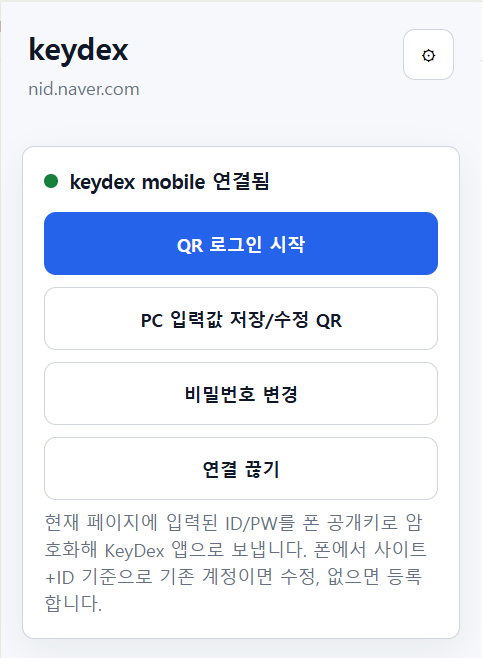
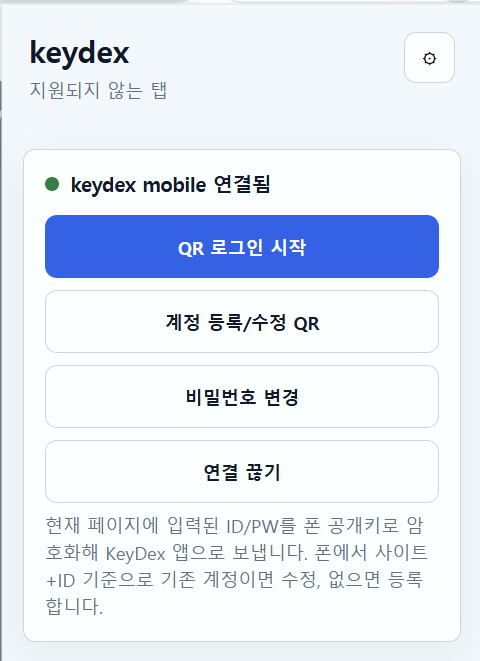
메뉴얼 1차 수정 2/2

diff --git a/keydex-manual.html b/keydex-manual.html
@@ -477,7 +477,7 @@
       </a>
       <a href="#pc">
         <strong>PC에서 지원하는 기능</strong>
-        <span>QR 로그인, PC 입력값 저장/수정 QR, 비밀번호 변경, 확장 프로그램 설정</span>
+        <span>QR 로그인, 계정 등록/수정 QR, 비밀번호 변경, 확장 프로그램 설정</span>
       </a>
       <a href="#mobile">
         <strong>스마트폰에서 지원하는 기능</strong>
@@ -546,7 +546,7 @@
         <ul>
           <li>최초 폰 페어링은 확장 프로그램과 폰 앱이 같은 릴레이 서버를 바라봐야 하므로 릴레이 URL이 필요합니다.</li>
           <li>QR 로그인도 폰 앱이 승인한 로그인 정보를 확장 프로그램이 릴레이 서버를 통해 받아야 하므로 릴레이 URL이 필요합니다.</li>
-          <li>PC 입력값 저장/수정 QR은 폰 앱이 QR 내용을 직접 받아 처리하는 흐름이므로, QR payload 안에 항상 relayBaseUrl이 필요한 것은 아닙니다.</li>
+          <li>계정 등록/수정 QR은 폰 앱이 QR 내용을 직접 받아 처리하는 흐름이므로, QR payload 안에 항상 relayBaseUrl이 필요한 것은 아닙니다.</li>
         </ul>
       </div>
 
@@ -600,7 +600,7 @@
         <div class="card-body">
           <h3>연결된 상태의 기본 메뉴</h3>
           <p>
-            폰 페어링이 완료되면 확장 프로그램 팝업에 <strong>QR 로그인 시작</strong>, <strong>PC 입력값 저장/수정 QR</strong>,
+            폰 페어링이 완료되면 확장 프로그램 팝업에 <strong>QR 로그인 시작</strong>, <strong>계정 등록/수정 QR</strong>,
             <strong>비밀번호 변경</strong>, <strong>연결 끊기</strong>가 표시됩니다.
           </p>
         </div>
@@ -624,9 +624,9 @@
         </article>
 
         <article class="card">
-          <img class="screen pc-tall" src="manual-assets/extension-save-qr.png" alt="PC 입력값 저장 또는 수정 QR 화면">
+          <img class="screen pc-tall" src="manual-assets/extension-save-qr.png" alt="계정 등록 또는 수정 QR 화면">
           <div class="card-body">
-            <h3>PC 입력값 저장/수정 QR</h3>
+            <h3>계정 등록/수정 QR</h3>
             <p>
               웹사이트의 로그인, 회원가입, 계정 수정 화면에 입력된 ID/PW를 QR로 만들어 폰 앱에 전달합니다.
               폰 앱은 사이트와 ID를 기준으로 기존 계정이 있으면 수정하고, 없으면 새 계정으로 등록합니다.
@@ -683,7 +683,7 @@
             <td>폰 페어링과 릴레이 URL 설정이 필요합니다.</td>
           </tr>
           <tr>
-            <td><span class="tag pc">PC 입력값 저장/수정 QR</span></td>
+            <td><span class="tag pc">계정 등록/수정 QR</span></td>
             <td>로그인, 회원가입, 계정 수정 화면</td>
             <td>PC 폼의 ID/PW를 QR로 전달하고 폰 앱에서 최종 저장</td>
             <td>사이트와 ID 기준으로 신규 등록 또는 기존 수정이 결정됩니다.</td>
@@ -791,7 +791,7 @@
           <h3>KeyDex 확장 QR 스캔</h3>
           <p>
             QR 버튼은 크롬 확장 프로그램과 연동되는 QR만 처리합니다.
-            최초 페어링, QR 로그인 승인, PC 입력값 저장/수정 QR, 비밀번호 변경 관련 QR을 스캔하는 전용 진입점입니다.
+            최초 페어링, QR 로그인 승인, 계정 등록/수정 QR, 비밀번호 변경 관련 QR을 스캔하는 전용 진입점입니다.
           </p>
         </div>
       </article>
@@ -819,22 +819,35 @@
         </article>
       </div>
 
-      <article class="card">
-        <img class="screen phone" src="manual-assets/ios-autofill-safari.png" alt="iOS Safari 로그인 화면에서 KeyDex 자동완성 후보가 표시된 화면">
-        <div class="card-body">
-          <h3>스마트폰 로그인 자동입력</h3>
-          <p>
-            스마트폰에서도 등록된 사이트 로그인 정보를 이용해 ID와 비밀번호를 자동입력할 수 있습니다.
-            iOS에서는 설정에서 KeyDex 암호 자동완성을 활성화한 뒤 Safari나 앱 로그인 화면의 입력란을 선택하면,
-            키보드 상단에 해당 도메인의 <strong>KeyDex 암호 후보</strong>가 표시됩니다.
-          </p>
-          <ul>
-            <li>후보를 선택하면 KeyDex에 저장된 아이디와 비밀번호가 로그인 폼에 입력됩니다.</li>
-            <li>도메인이 저장된 사이트 정보와 매칭되어야 후보가 표시됩니다.</li>
-            <li>앱 또는 사이트 구조에 따라 자동완성 표시 방식은 OS 화면 정책을 따릅니다.</li>
-          </ul>
-        </div>
-      </article>
+      <div class="grid">
+        <article class="card">
+          <img class="screen phone" src="manual-assets/ios-autofill-set.png" alt="iOS Safari 로그인 화면에서 KeyDex 자동완성 후보가 표시된 화면">
+          <div class="card-body">
+            <h3>iOS 자동완성 설정</h3>
+            <p>
+              설정 > iOS 암호 자동완성 설정 을 통해서 iOS 자동 완성 및 암호 설정 화면에 진입합니다.
+              KeyDex 를 선택해주세요.
+            </p>
+          </div>
+        </article>
+
+        <article class="card">
+          <img class="screen phone" src="manual-assets/ios-autofill-chrom.png" alt="iOS Safari 로그인 화면에서 KeyDex 자동완성 후보가 표시된 화면">
+          <div class="card-body">
+            <h3>스마트폰 로그인 자동입력</h3>
+            <p>
+              스마트폰에서도 등록된 사이트 로그인 정보를 이용해 ID와 비밀번호를 자동입력할 수 있습니다.
+              iOS에서는 설정에서 KeyDex 암호 자동완성을 활성화한 뒤 Safari나 앱 로그인 화면의 입력란을 선택하면,
+              키보드 상단에 해당 도메인의 <strong>KeyDex 암호 후보</strong>가 표시됩니다.
+            </p>
+            <ul>
+              <li>후보를 선택하면 KeyDex에 저장된 아이디와 비밀번호가 로그인 폼에 입력됩니다.</li>
+              <li>도메인이 저장된 사이트 정보와 매칭되어야 후보가 표시됩니다.</li>
+              <li>앱 또는 사이트 구조에 따라 자동완성 표시 방식은 OS 화면 정책을 따릅니다.</li>
+            </ul>
+          </div>
+        </article>
+      </div>
 
       <table class="feature-table" aria-label="스마트폰 기능 요약">
         <thead>
